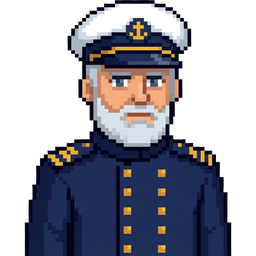
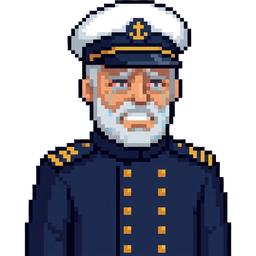
Add Takahide's sad captain face; credit portraits in README

Changed region(s): [[0.4062, 0.25, 0.6562, 0.5312], [0.5938, 0.5312, 0.625, 0.5625], [0.4062, 0.5, 0.4375, 0.5312]]

diff --git a/README.md b/README.md
@@ -54,7 +54,7 @@ PR を開くと `.github/workflows/preview.yml` が `https://kyokensugar.github.
 
 ## 画像・音楽・効果音
 
-- オープニング画像(`public/images/opening.webp`)は Takahide Sato 提供のオリジナル(1800×595, WebP に変換)。
+- オープニング画像(`public/images/opening.webp`)と艦長の顔アイコン3種(`public/images/captain-*.png`)は Takahide Sato 提供のオリジナル。
 
 - BGM(`public/music/`)は Takahide Sato によるオリジナル楽曲です。
   - `opening.mp3`: "Beyond the Event Horizon"(オープニング/配置/結果画面)
